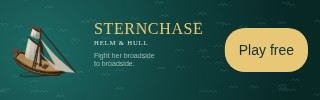
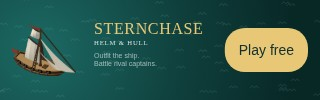
Promo art: no shadow, larger guns on the cutter, simpler copy
The ship stands on the water without a drawn shadow. drawGalleon takes an
optional gunScale, unset in the game, and the art draws the cutter's guns at
2.5 times true size so they read at an ad's scale. The copy is now
"Outfit the ship. Battle rival captains." and "Start as an unrated ship,
upgrade to a 1st rate.", and names no count of ships.

Claude-Session: https://claude.ai/code/session_01AZCrWv5ukNDgzLuCTkhn4e

Changed region(s): [[0.2812, 0.51, 0.5, 0.69], [0.0625, 0.63, 0.1562, 0.75], [0.0625, 0.75, 0.125, 0.78]]

diff --git a/src/galleon.js b/src/galleon.js
@@ -413,8 +413,10 @@ function rigFromSpec(spec, form) {
   }
   // `guns` is her fitted broadside a side, and it decides which of her ports have a gun in them and
   // which are shut. A spec that names no count is a ship fully armed, which is what the galleon and
-  // anything drawn without a loadout has always been.
-  return { bowsprit: spec.bowsprit !== false, masts, spars, form, guns: spec.guns };
+  // anything drawn without a loadout has always been. `gunScale` enlarges every gun she shows and
+  // the opening it stands in. Nothing in the game sets it; it is there for the promotional art, where
+  // a cutter's guns at their true size are too small to see at an advertisement's scale.
+  return { bowsprit: spec.bowsprit !== false, masts, spars, form, guns: spec.guns, gunScale: spec.gunScale || 1 };
 }
 
 /** The ship this file has always drawn, and what it falls back to when asked for no rig in particular. */
@@ -575,6 +577,7 @@ function buildShip(rig){
      bounds the bare stretch at four, while the hash still puts two guns side by
      side here and none for a few ports there. */
   const armed=rig&&rig.guns!=null?Math.max(0,Math.min(borne,rig.guns)):borne;
+  const GS=rig&&rig.gunScale||1;
   const runsOut=(i)=>{
    if(fine)return true;
    let h=Math.imul(Math.floor(i/3)+1,0x9e3779b1)>>>0;
@@ -586,7 +589,7 @@ function buildShip(rig){
    const n=portN++;
    const open=n<armed;
    const runOut=open&&runsOut(n);
-   const PW=row.hw, PH=row.hh, gk=row.gun;
+   const PW=row.hw*GS, PH=row.hh*GS, gk=row.gun*GS;
    /* A port that would sit at or under her waterline is not drawn. Nothing should
       reach this now: a tier hangs a constant drop under her sheer and the drops are
       solved against the shallowest side under the battery, so the sill stands clear
@@ -679,8 +682,8 @@ function buildShip(rig){
    const deck=row.deck==="aft"?form.aft:row.deck==="fore"?form.fore:null;
    if(row.deck!=="rail"&&!deck)continue;
    const tag=deck?"castle":"hull";
-   const oh=BULWARK*(row.main?0.34:0.30), ow=BULWARK*(row.main?0.46:0.42);
-   const len=BULWARK*(row.main?1.1:0.75), rad=BULWARK*(row.main?0.22:0.19);
+   const oh=BULWARK*(row.main?0.34:0.30)*GS, ow=BULWARK*(row.main?0.46:0.42)*GS;
+   const len=BULWARK*(row.main?1.1:0.75)*GS, rad=BULWARK*(row.main?0.22:0.19)*GS;
    for(const px of row.xs){
     const z=(deck?deck.z:stationAt(px).sheer)+BULWARK*0.5;
     const w=railAt(px);

diff --git a/promo/README.md b/promo/README.md
@@ -7,7 +7,9 @@ and icons are `public/`, drawn by `npm run icon`.
 
 Generated by `tools/promo.mjs` with the menu's own `drawGalleon`, so redraw rather than edit by hand.
 The hero is the game's mark from `tools/mark.mjs`, the Cutter light the home-screen icon is drawn
-from, so an ad and the icon a player then taps are the same ship.
+from, so an ad and the icon a player then taps are the same ship. Her guns are drawn at 2.5 times their true
+size (`GUN_SCALE` in `tools/promo.mjs`), because at an ad's scale a cutter's real guns are specks.
+The copy names no count of ships, since the fleet will grow.
 
 | File | Use |
 | --- | --- |
